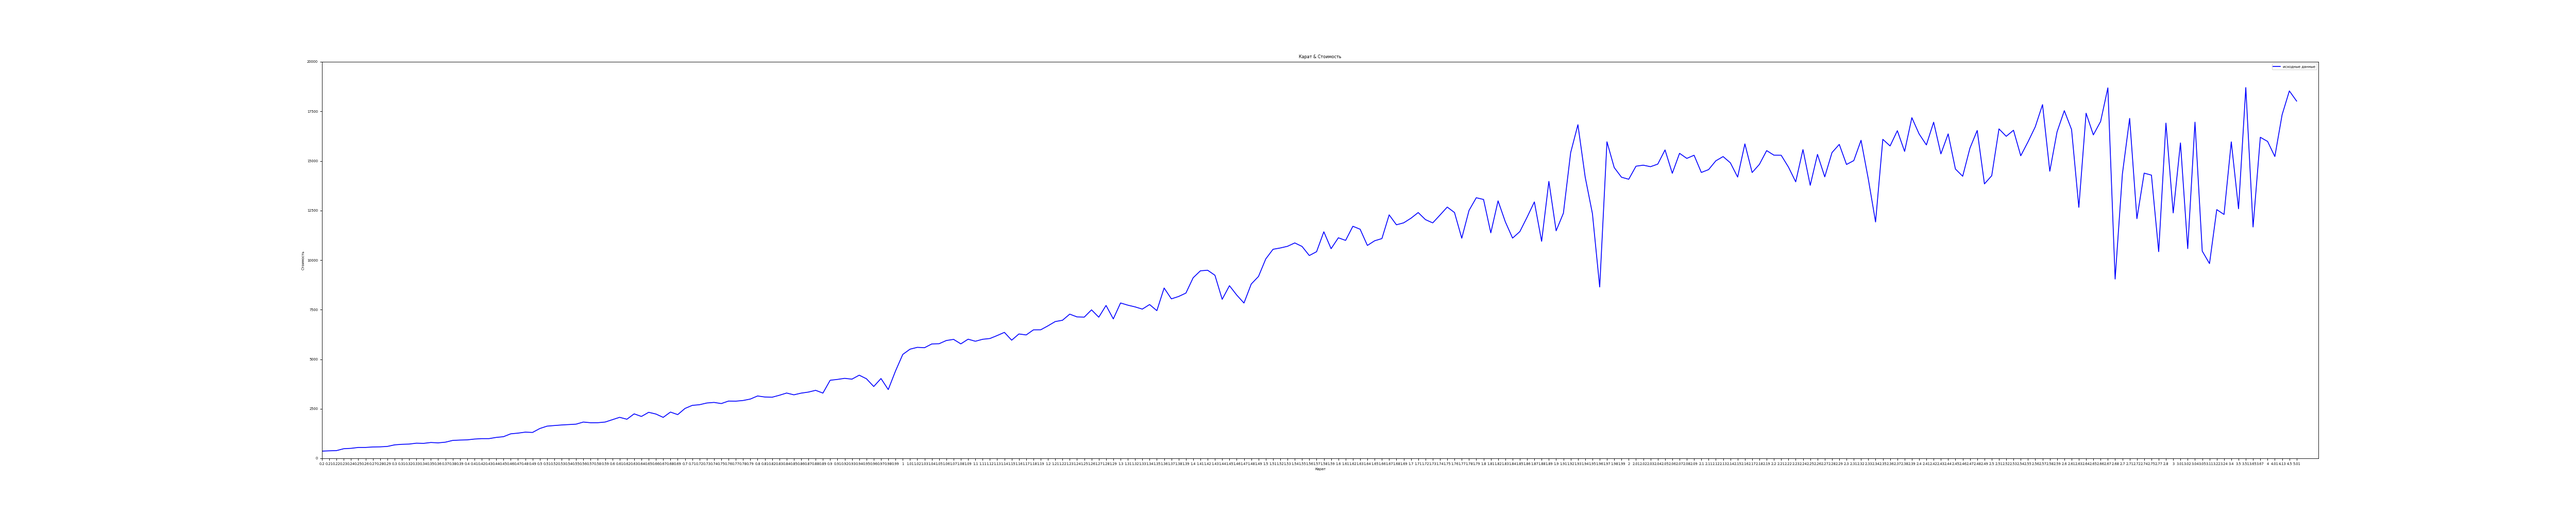
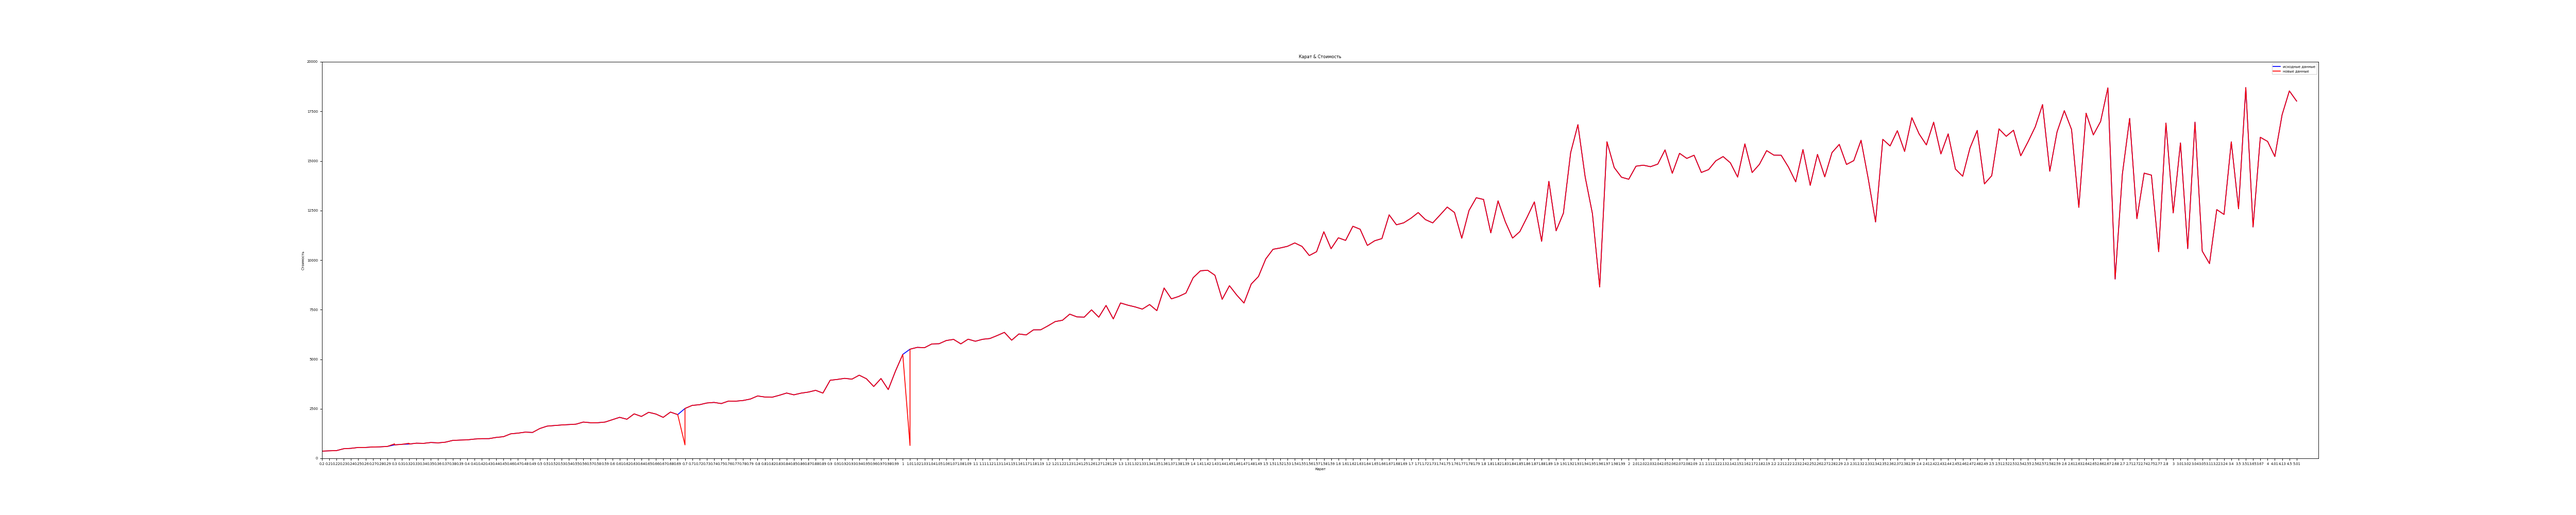
3 лабороторная

diff --git a/main.html b/main.html
@@ -13,5 +13,6 @@
         <input type=submit value='Кнопка'><br>
     </form>
     <a href="http://127.0.0.1:5000/lab2">2 лабороторная</a>
+    <a href="http://127.0.0.1:5000/lab3">3 лабороторная</a>
 </body>
 </html>

diff --git a/main.py b/main.py
@@ -86,10 +86,33 @@ def lab3():
         y_array += [element[3]]
         x_array += [element[0]]
 
+    new_data = []
 
+    for i in range(int(len(sort_group_data)/10)):
+        new_data.append([
+                         float(avg_carat[random.randint(0,4)][0]),
+                         avg_cut[random.randint(0,4)][0],
+                         avg_color[random.randint(0,4)][0],
+                         avg_clarity[random.randint(0,4)][0],
+                         avg_depth[random.randint(0,4)][0],
+                         avg_table[random.randint(0,4)][0],
+                         float(avg_price[random.randint(0,4)][0]),
+                         avg_x[random.randint(0,4)][0],
+                         avg_y[random.randint(0,4)][0],
+                         avg_z[random.randint(0,4)][0]
+                         ])
 
+    new_data = functions.group_by_array_column(new_data,0)
+    new_data += sort_group_data
+    new_data = sorted(new_data, key=lambda x: float(x[0]))
+    print(new_data)
+    for element in new_data:
+        new_y_array += [element[3]]
+        new_x_array += [element[0]]
 
     plt.plot(x_array, y_array, color='blue', linestyle='solid', label='исходные данные')
+    plt.plot(new_x_array, new_y_array, color='red', linestyle='solid', label='новые данные')
+
 
 
     plt.legend(loc='upper right')

diff --git a/functions.py b/functions.py
@@ -72,6 +72,27 @@ def group_by_column(file_path, column_index):
 
     return result
 
+def group_by_array_column(array,column_index):
+    groups = {}
+    result = []
+
+    for row in array:
+        column_value = row[column_index]
+        if column_value not in groups:
+            groups[column_value] = []
+        groups[column_value].append(row)
+
+    for key, value in groups.items():
+        group_element = ""
+        costs = []
+        for row in value:
+            group_element = row[column_index]
+            costs.append(float(row[6]))
+
+        result.append([group_element, min(costs), max(costs), int(sum(costs) / len(value)), len(value)])
+
+    return result
+
 
 def array_to_html(arr):
     html = '<table>'
